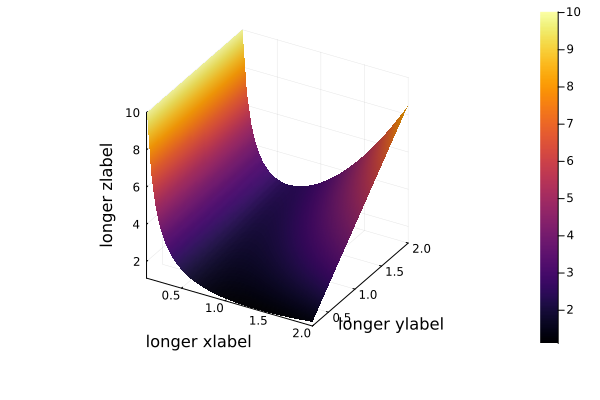
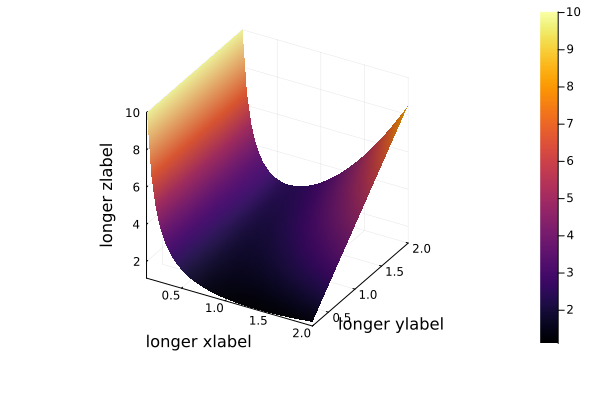
(GR) grid scattered points for contour as for surface (#5867)
* (GR) grid scattered points for contour as for surface

* Keep points that already lie on a grid instead of interpolating them

* (GR) keep points of a surface that already lie on a grid

Changed region(s): [[0.24, 0.09, 0.42, 0.42]]

diff --git a/NEWS.md b/NEWS.md
@@ -49,6 +49,8 @@
   ticks stay on round dates. A type recipe hands the numbers back as its type with a third function
 
 ### Fixed
+- GR backend: `contour` and `contourf` take `x`, `y` and `z` as vectors of scattered points, where they threw, and
+  `surface` keeps points that already lie on a grid instead of interpolating them (#5042)
 - `markershape = :auto` and `linestyle = :auto` cycle through the shapes and styles in their usual order, starting
   from `:circle` and `:solid`, where they went alphabetically and gave `:+` and `:cross`, which look alike, to the
   first and third series (#5005)
